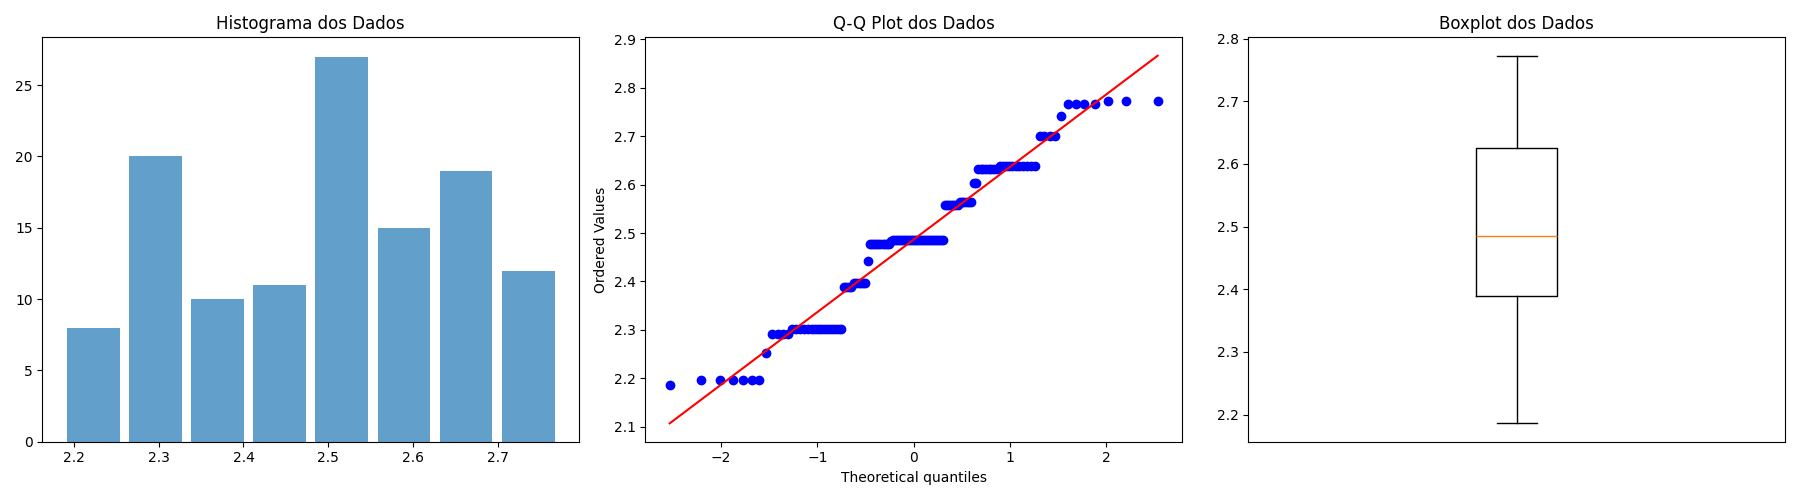
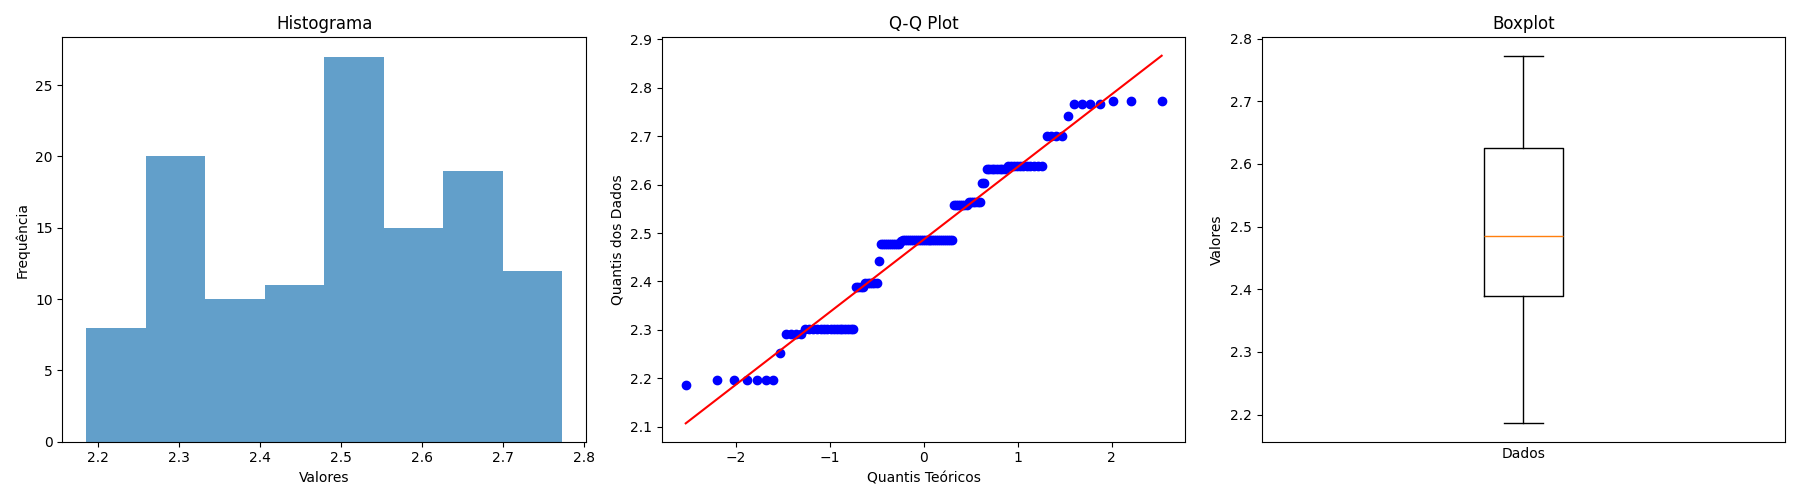
arrumando imagens

diff --git a/AT3/main.py b/AT3/main.py
@@ -281,16 +281,22 @@ def graphs(data, class_number, path=None):
     fig, axs = plt.subplots(1, 3, figsize=(18, 5))
 
     # Histograma
-    axs[0].hist(data, bins=class_number, alpha=0.7, rwidth=0.85)
-    axs[0].set_title('Histograma dos Dados')
+    axs[0].hist(data, bins=class_number, alpha=0.7)
+    axs[0].set_title('Histograma')
+    axs[0].set_xlabel('Valores')  # Título do eixo X para o histograma
+    axs[0].set_ylabel('Frequência')  # Título do eixo Y para o histograma
 
     # Q-Q Plot
     stats.probplot(data, dist="norm", plot=axs[1])
-    axs[1].set_title('Q-Q Plot dos Dados')
+    axs[1].set_title('Q-Q Plot')
+    axs[1].set_xlabel('Quantis Teóricos')  # Título do eixo X para o Q-Q Plot
+    axs[1].set_ylabel('Quantis dos Dados')  # Título do eixo Y para o Q-Q Plot
 
     # Boxplot
     axs[2].boxplot(data, vert=True)
-    axs[2].set_title('Boxplot dos Dados')
+    axs[2].set_title('Boxplot')
+    axs[2].set_xlabel('Dados')  # Título do eixo X para o Boxplot
+    axs[2].set_ylabel('Valores')  # Título do eixo Y para o Boxplot
     axs[2].set_xticks([])  # Remove os ticks do eixo y
 
     # Ajuste dos layouts
